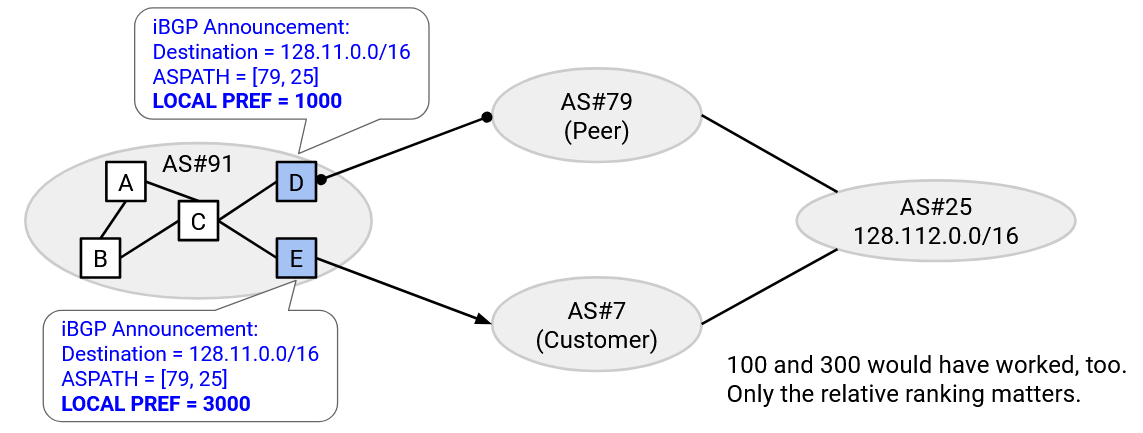
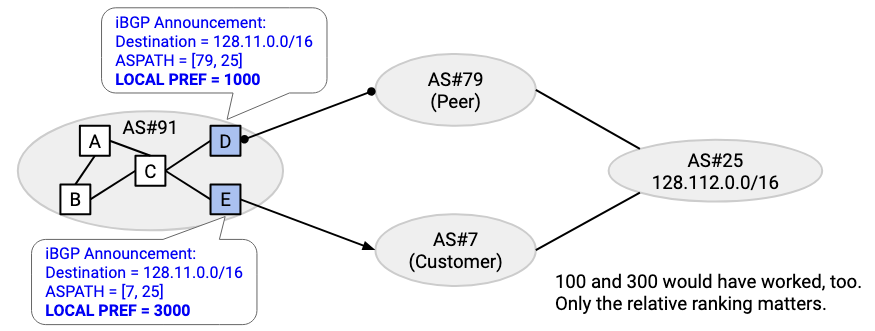
[fix] typos (#12)
* [fix] typo: wrong BGP egress router label, wrong ASPATH label

* [fix] typo: UCM --> Stanford

diff --git a/routing/bgp-implementation.md b/routing/bgp-implementation.md
@@ -117,7 +117,7 @@ Using iBGP, every router inside the AS sees both announcements. One says, the eg
 
 <img width="800px" src="/assets/routing/2-184-multilink5.png">
 
-Let's focus on router E. Using IGP, this router can figure out the distance to the west egress router, and the distance to the east egress router. Since the east egress router is closer, routing packets via the east egress router will use up less of this AS's bandwidth. Therefore, this router will import the path via the east egress router. Another router, like one closer to the west egress router, might decide to import a different path.
+Let's focus on router E. Using IGP, this router can figure out the distance to the west egress router (F), and the distance to the east egress router (I). Since the west egress router (F) is closer, routing packets via the west egress router (F) will use up less of this AS's bandwidth. Therefore, this router will import the path via the west egress router (F). Another router, like one closer to the east egress router (I), might decide to import a different path.
 
 <img width="800px" src="/assets/routing/2-185-multilink6.png">
 
@@ -196,7 +196,7 @@ Some attributes are local to an AS, and are only exchanged in iBGP messages. Oth
 
 There are many BGP attributes, but we'll focus on three important ones, which are used to encode the different tiebreakers for importing paths.
 
-The **`LOCAL PREFERENCE**` attribute encodes the Gao-Rexford import rules (top priority tiebreaker) inside a specific AS. An AS can assign a higher value to more preferred routes (e.g. from customers), and a lower value to less preferred routes (e.g. from providers). This attribute is local, and only carried in iBGP messages. This attribute is not sent to other ASes in eBGP announcements, because other ASes don't need to know about this AS's preferences.
+The **LOCAL PREFERENCE** attribute encodes the Gao-Rexford import rules (top priority tiebreaker) inside a specific AS. An AS can assign a higher value to more preferred routes (e.g. from customers), and a lower value to less preferred routes (e.g. from providers). This attribute is local, and only carried in iBGP messages. This attribute is not sent to other ASes in eBGP announcements, because other ASes don't need to know about this AS's preferences.
 
 <img width="900px" src="/assets/routing/2-194-attribute1.png">
 
@@ -206,7 +206,7 @@ By contrast, if router D receives an eBGP announcement from AS\#79, and this AS 
 
 The local preference numbers are arbitrary, and only their relative ranking is important. In the example above, the numbers could have been 300 and 100 instead of 3000 and 1000, and the behavior would be the same. The local preference numbers are often set manually by operators.
 
-The **`ASPATH**` attribute contains a list of ASes along the route being advertised (in reverse order). This attribute is global, and can be sent in eBGP announcements.
+The **ASPATH** attribute contains a list of ASes along the route being advertised (in reverse order). This attribute is global, and can be sent in eBGP announcements.
 
 <img width="800px" src="/assets/routing/2-195-attribute2.png">
 
@@ -216,7 +216,7 @@ The `ASPATH` is the second priority tiebreaker when importing paths. If two anno
 
 If the local preference and path length are tied, the third priority tiebreaker is the IGP cost to the egress router. This cost is stored in the router's local forwarding table (e.g. a local distance-vector protocol would store the cost to every other router in the same AS).
 
-The **`MED**` attribute encodes the preferences of the exporting AS. Equivalently, this attribute represents the distance from the exporting router to the destination (lower numbers are preferred).
+The **MED** attribute encodes the preferences of the exporting AS. Equivalently, this attribute represents the distance from the exporting router to the destination (lower numbers are preferred).
 
 <img width="900px" src="/assets/routing/2-196-attribute3.png">
 

diff --git a/routing/addressing.md b/routing/addressing.md
@@ -172,9 +172,9 @@ Consider this diagram of networks. In our original model, R6 needs a separate fo
 
 <img width="900px" src="/assets/routing/2-110-aggregation2.png">
 
-However, if we used hierarchical addressing, then UCB's range (4.12.0.0/16) and UCM's range (4.29.0.0/16) are both subsets of AT&T's range (4.0.0.0/8). This could happen if AT&T allocated those ranges to its subordinate customers UCB and UCM.
+However, if we used hierarchical addressing, then UCB's range (4.12.0.0/16) and Stanford's range (4.29.0.0/16) are both subsets of AT&T's range (4.0.0.0/8). This could happen if AT&T allocated those ranges to its subordinate customers UCB and Stanford.
 
-Now, R6 only needs a single entry for AT&T, UCB, and UCM. We've aggregated the two smaller ranges into the wider range that they both belong to.
+Now, R6 only needs a single entry for AT&T, UCB, and Stanford. We've aggregated the two smaller ranges into the wider range that they both belong to.
 
 
 ## Multi-Homing
